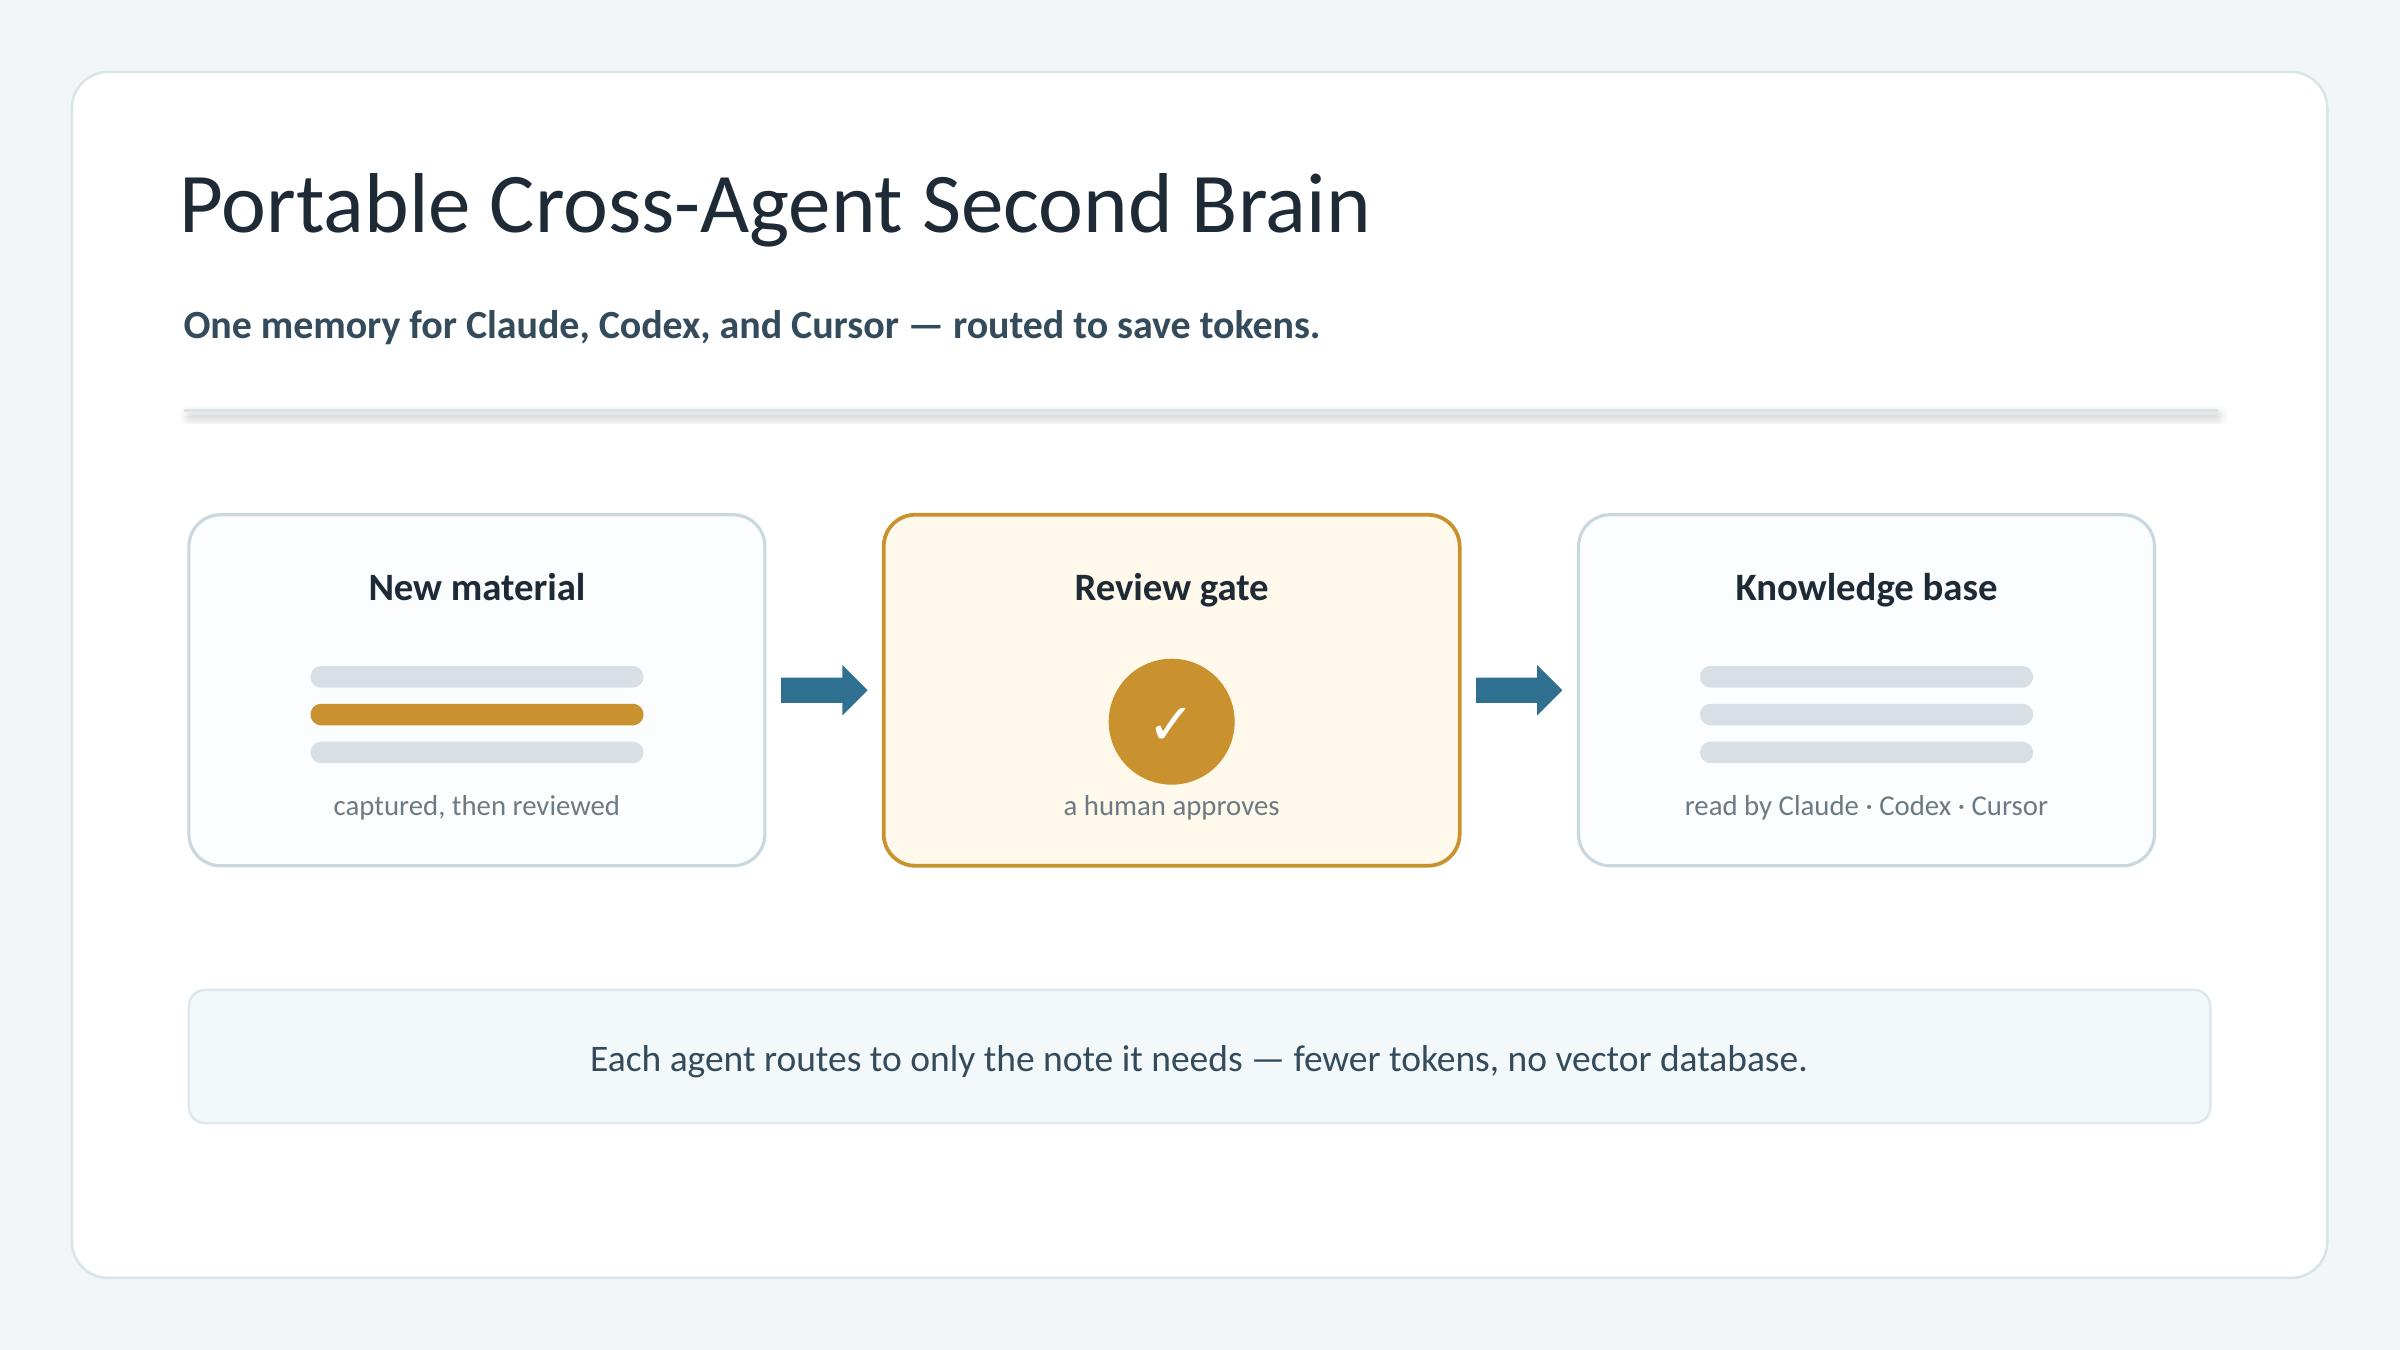
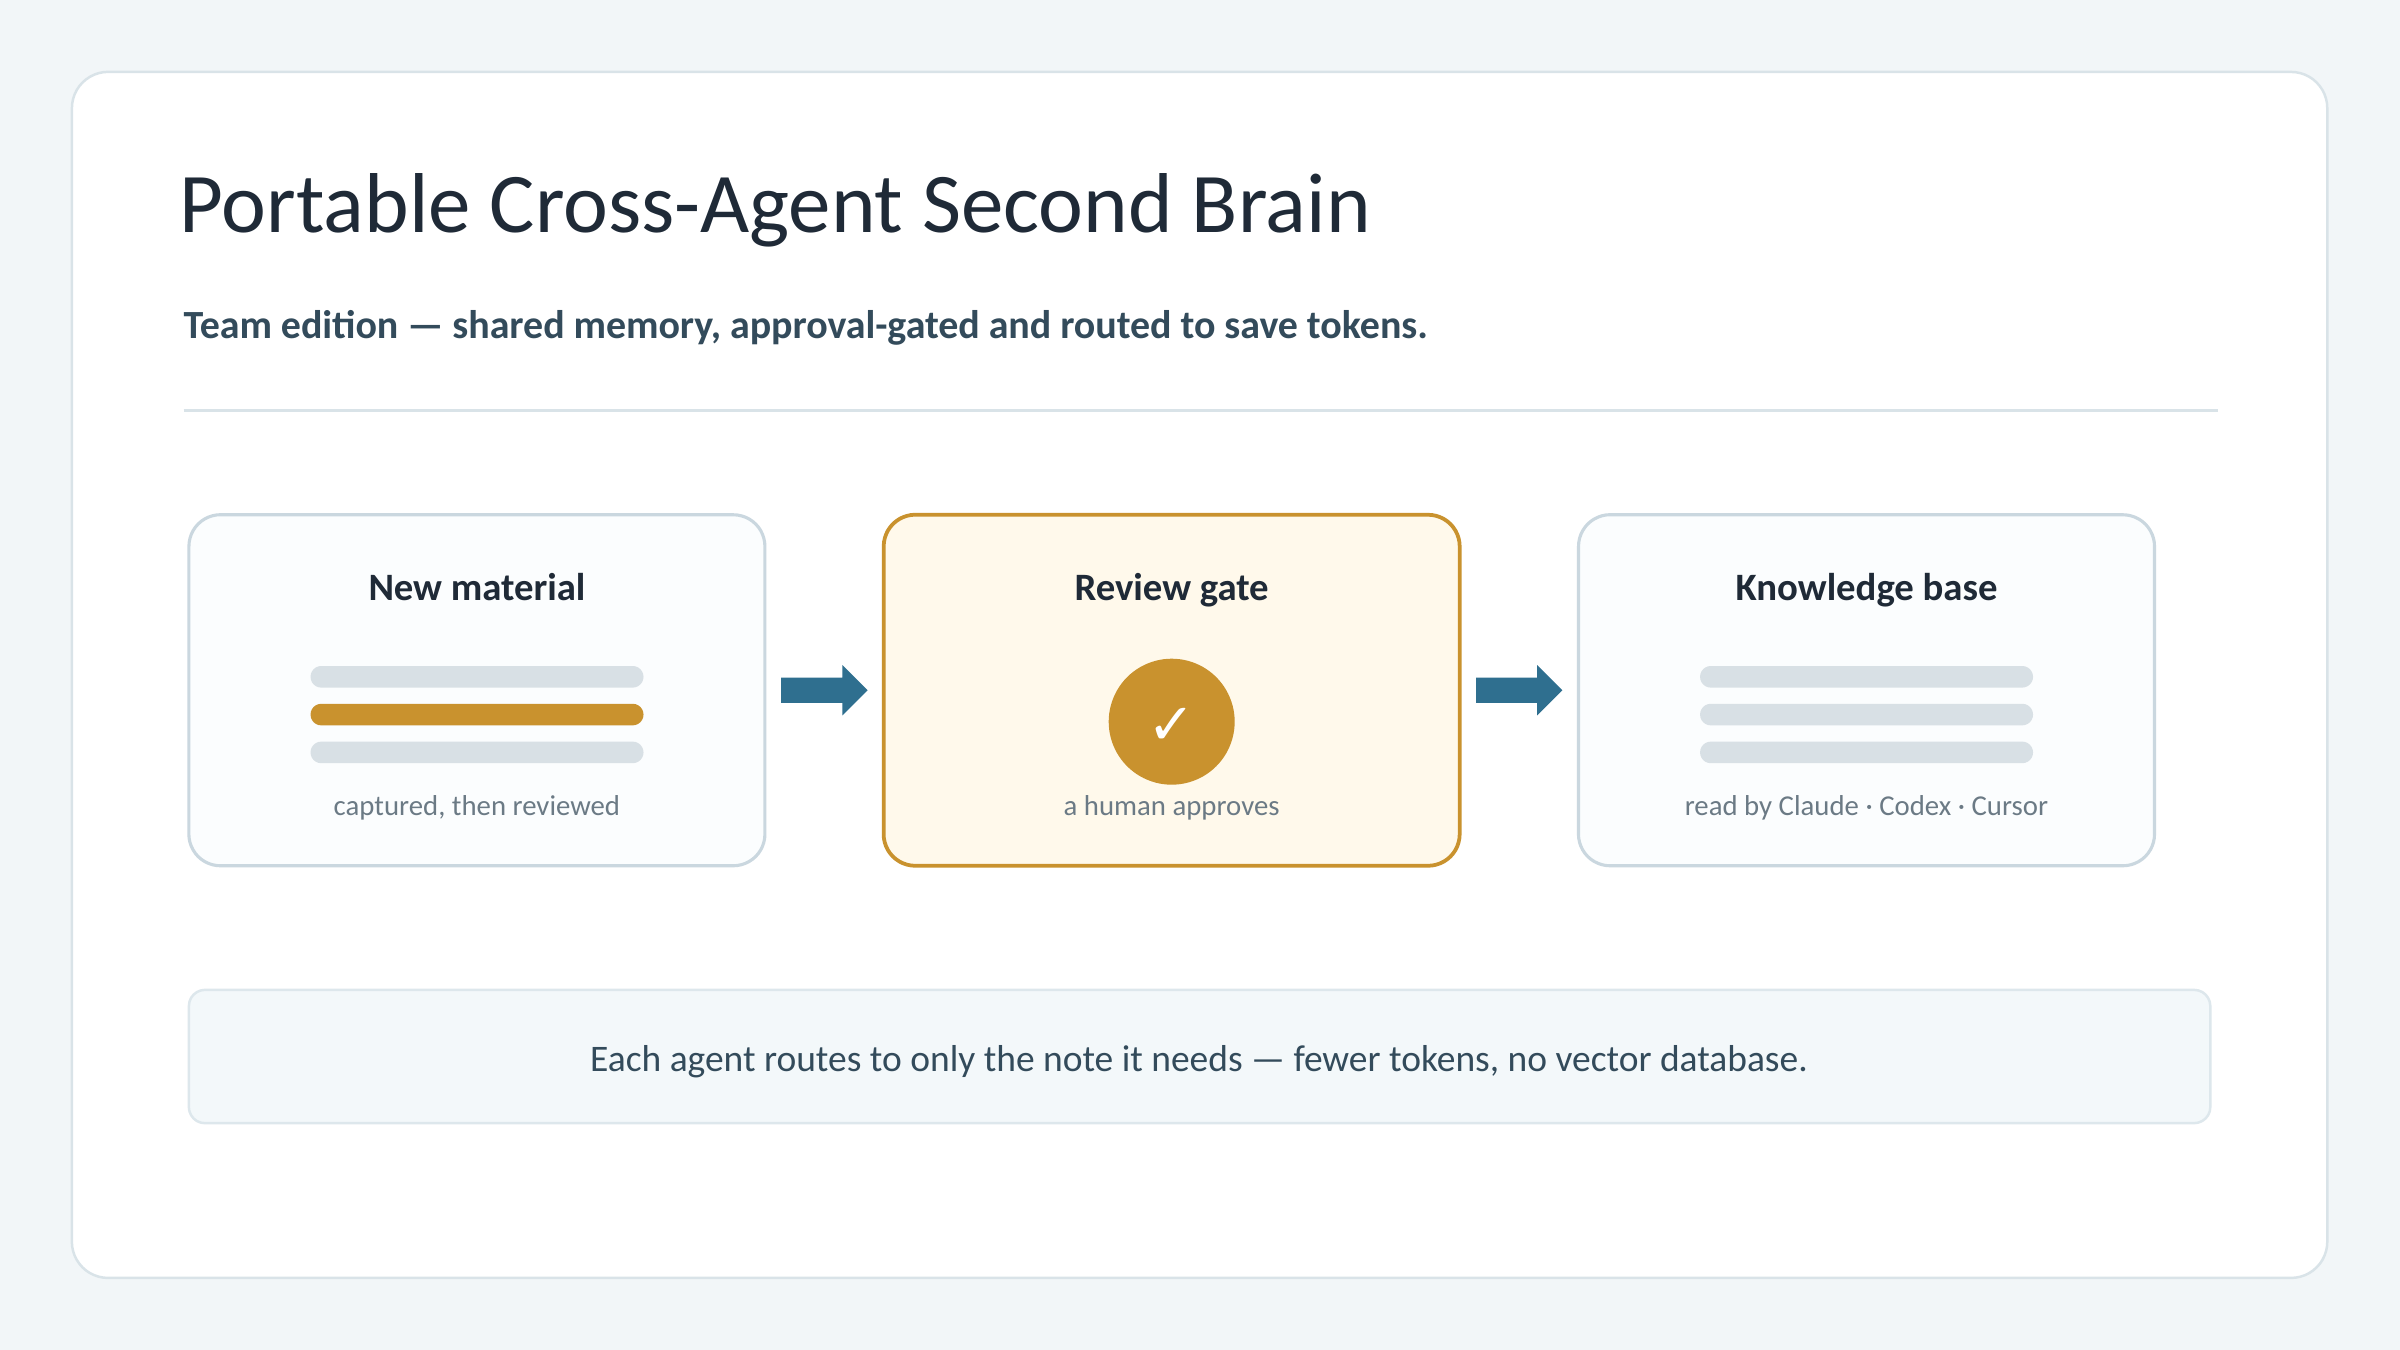
Split second brain into Personal + Team cards; add Personal cover, refresh Team cover

Changed region(s): [[0.0938, 0.28, 0.9062, 0.3111], [0.0625, 0.2178, 0.5938, 0.2489]]

diff --git a/resources.html b/resources.html
@@ -170,14 +170,29 @@
 </div>
 </article>
 <article class="card resource-product-card">
-<h3>Portable Cross-Agent Second Brain</h3>
-<a class="resource-preview-link" href="https://github.com/policani/portable-cross-agent-second-brain" target="_blank" rel="noopener noreferrer" aria-label="Open the Portable Cross-Agent Second Brain repository">
-<img class="resource-preview-image" src="assets/portable-knowledge-base-cover.png?v=20260626-v5" alt="Workflow diagram: raw material is dropped in, an AI drafts proposed notes, a human approves, and the result becomes a seven-note vault; each agent routes to only the note it needs to save tokens" width="1600" height="900" loading="lazy">
+<h3>Portable Cross-Agent Second Brain — Personal</h3>
+<a class="resource-preview-link" href="https://github.com/policani/portable-cross-agent-second-brain-personal" target="_blank" rel="noopener noreferrer" aria-label="Open the Portable Cross-Agent Second Brain (Personal) repository">
+<img class="resource-preview-image" src="assets/portable-cross-agent-second-brain-personal-cover.png?v=20260627-p1" alt="Workflow diagram: new material is captured into a seven-note vault that any of Claude, Codex, or Cursor reads, each routing to only the note it needs to save tokens" width="1600" height="900" loading="lazy">
 </a>
-<p>A plain-markdown second brain that gives Claude, Codex, and Cursor the same memory of how you work — through two parity instruction files, no database or lock-in. It routes to only the note it needs, so it saves tokens; new material is proposed, then you approve it before anything becomes memory. That context economy is what makes the approach pay back at scale.</p>
+<p>A solo plain-markdown second brain that gives Claude, Codex, and Cursor the same memory of how you work — two parity instruction files, no database or lock-in. The AI drafts straight into your notes (no approval queue, since you're the only user) and routes to only the note it needs, so it saves tokens. The free, frictionless edition.</p>
 <div class="resource-tags" style="display:flex;flex-wrap:wrap;gap:6px;margin:0 0 2px">
 <span class="lane-label" style="margin:0">Open source</span>
 <span class="lane-label" style="margin:0">Claude · Codex · Cursor</span>
+<span class="lane-label" style="margin:0">Saves tokens</span>
+</div>
+<div class="repo-links">
+<a href="https://github.com/policani/portable-cross-agent-second-brain-personal" target="_blank" rel="noopener noreferrer">Open repository</a>
+</div>
+</article>
+<article class="card resource-product-card">
+<h3>Portable Cross-Agent Second Brain — Team</h3>
+<a class="resource-preview-link" href="https://github.com/policani/portable-cross-agent-second-brain" target="_blank" rel="noopener noreferrer" aria-label="Open the Portable Cross-Agent Second Brain (Team) repository">
+<img class="resource-preview-image" src="assets/portable-knowledge-base-cover.png?v=20260627-t6" alt="Workflow diagram: new material passes through a human-approved review gate before it enters a seven-note vault that Claude, Codex, and Cursor read, each routing to only the note it needs to save tokens" width="1600" height="900" loading="lazy">
+</a>
+<p>The same second brain for shared use: a propose-then-approve gate means new material is drafted, then a human approves it before it becomes trusted team memory. Two parity files keep it working across Claude, Codex, and Cursor, and selective routing keeps the token bill down — the context economy that pays back at scale.</p>
+<div class="resource-tags" style="display:flex;flex-wrap:wrap;gap:6px;margin:0 0 2px">
+<span class="lane-label" style="margin:0">Open source</span>
+<span class="lane-label" style="margin:0">Approval gate</span>
 <span class="lane-label" style="margin:0">Saves tokens</span>
 </div>
 <div class="repo-links">
